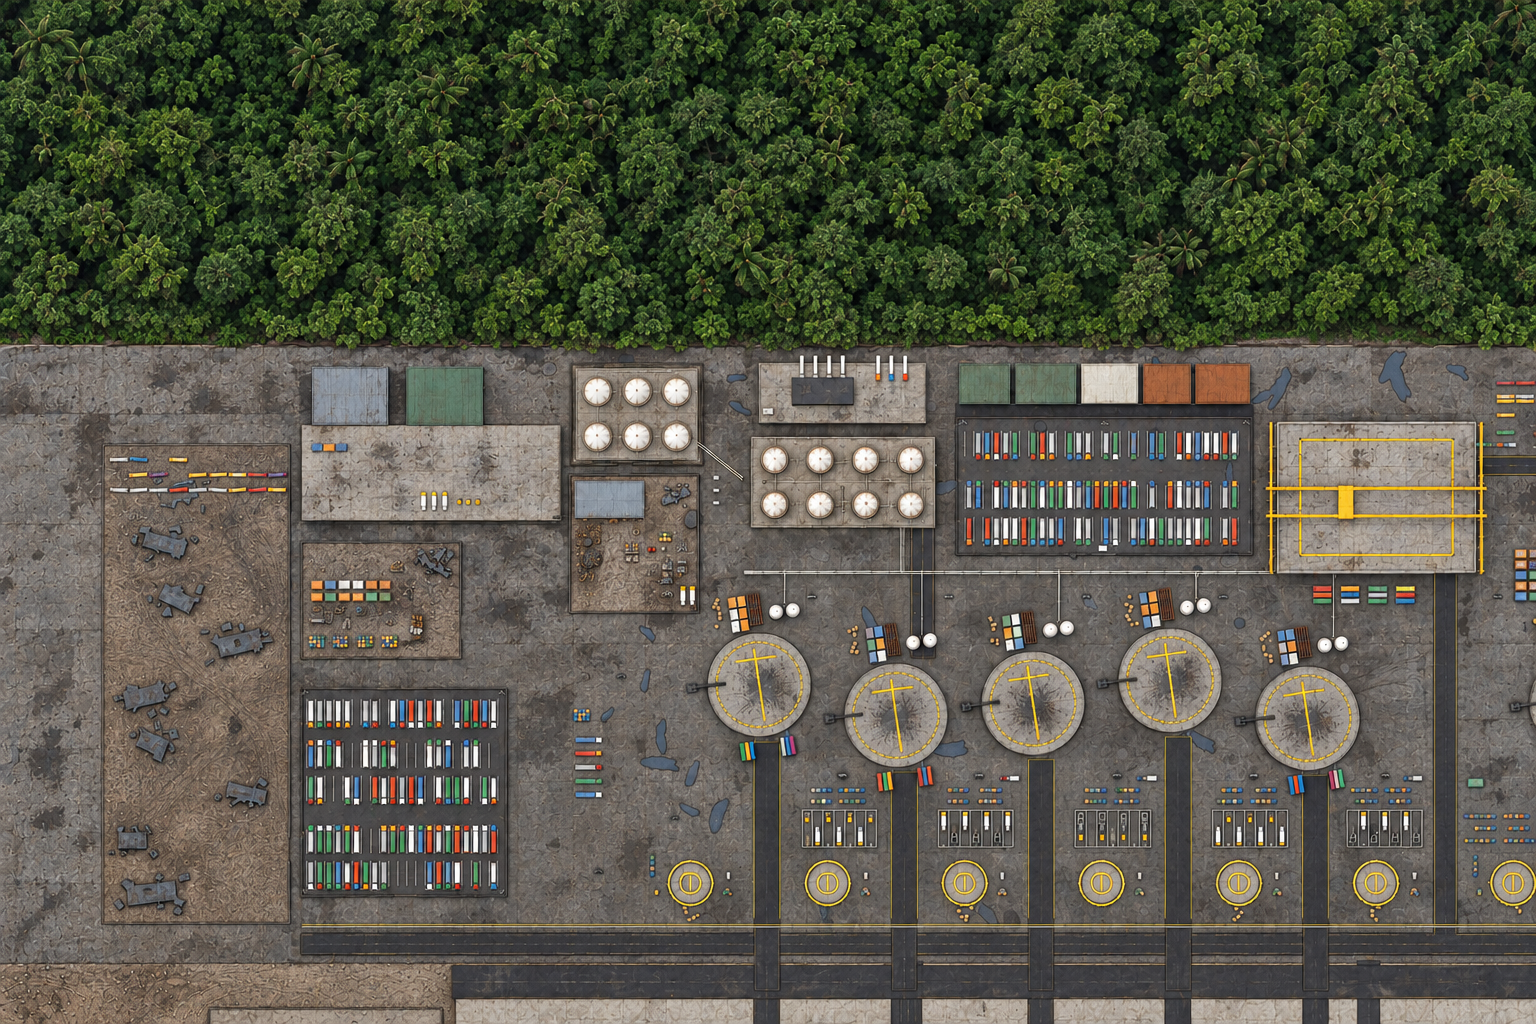
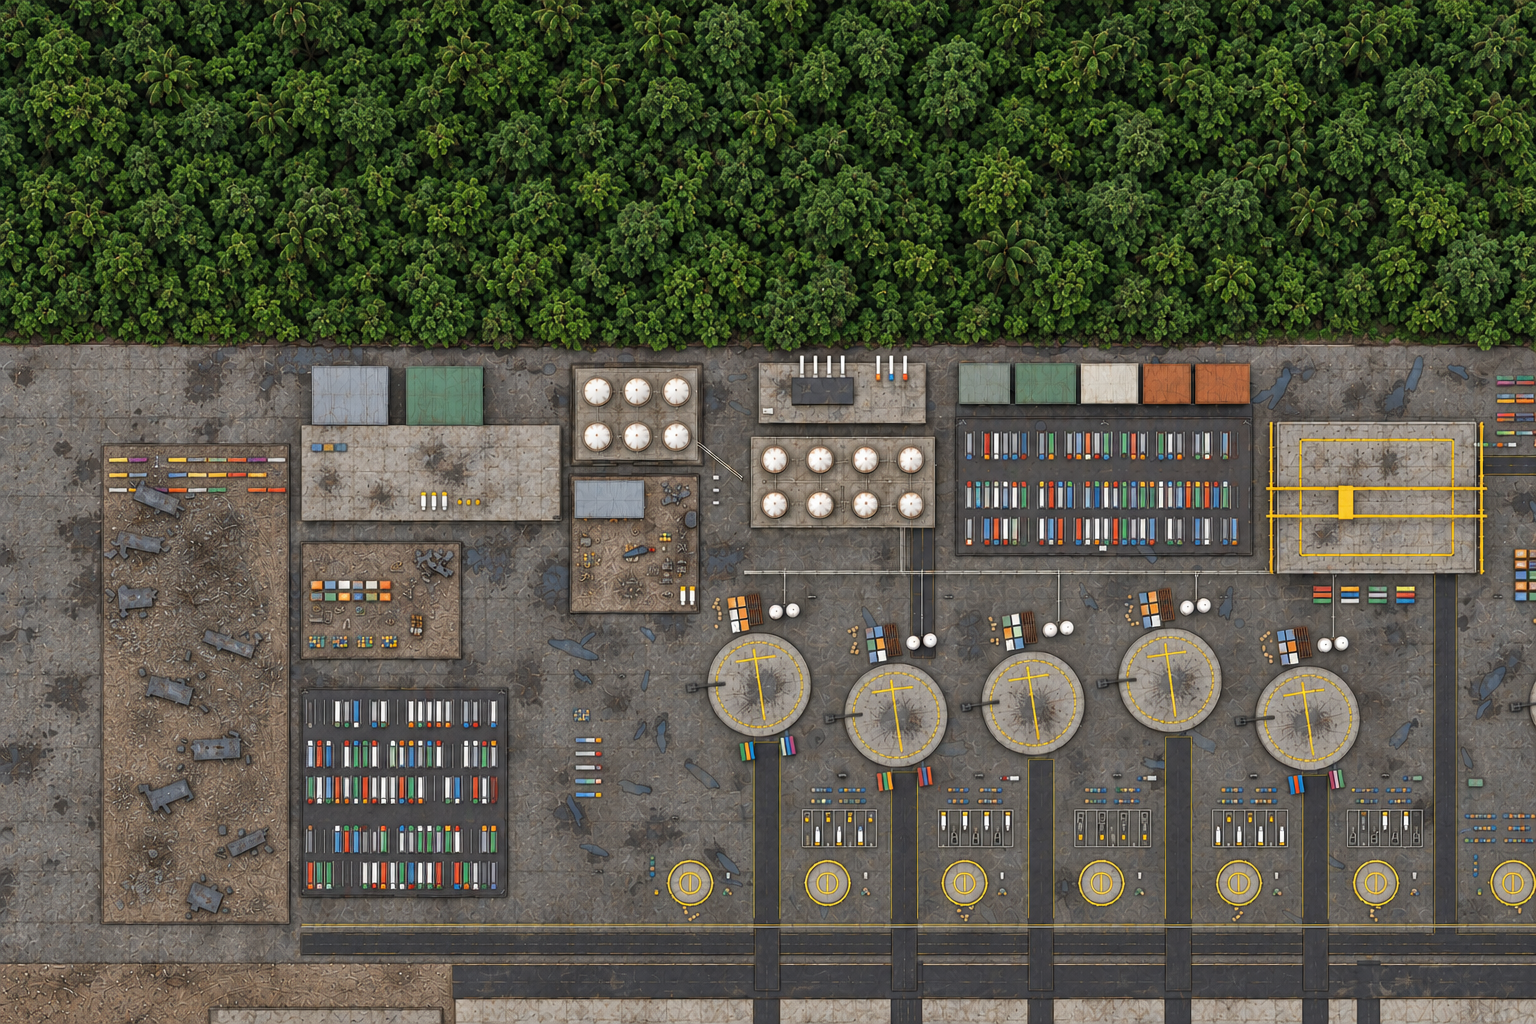
C4/C5 port detail: keep clear of port-life's routes
port_detail reads port_life.ROUTES and the berth forklift and bowser paths and
keeps everything standing off them: the arrivals car park and customs pound
move inside the terminal loop, and gap bays on a forklift lane are left out.
port_life's report now finds no mover passing through anything standing.
port-berths-w/e repainted over the moved layout (two generations).

diff --git a/art-source/company-prologue/second-wind-cinematic/industrial-exterior/port_detail.py b/art-source/company-prologue/second-wind-cinematic/industrial-exterior/port_detail.py
@@ -212,6 +212,7 @@ def keep_out(c4, g):
     for x, who in c4.LIGHTERS:
         g.circle(x, c4.LIGHTER_Y, c4.LIGHTER_R + 7)
         g.rect(x - 8, x + 8, c4.LIGHTER_Y - c4.LIGHTER_R - 14, c4.LIGHTER_Y)    # its crates
+    lanes += moving_ground(c4)
     LANES.extend(lanes)
     for ln in lanes:
         g.rect(*ln)
@@ -232,6 +233,32 @@ def keep_out(c4, g):
     for x, y, w, d, hh in c4.WAREHOUSES:
         g.rect(x - w / 2 - 2, x + w / 2 + 2, y - d / 2 - 2, y + d / 2 + 2)
     g.rect(-250.0, -214.0, -165.0, -92.0)                      # gate checkpoint
+
+
+def moving_ground(c4):
+    """Where port-life's vehicles drive (`port_life.ROUTES`, a lane centre each, vehicles up to 3 m
+    wide), and the paths its berth forklifts and second bowser take up the berth gaps
+    (`port_life.berth_work`): rectangles nothing standing may overlap."""
+    out = []
+    try:
+        import port_life
+    except ImportError:
+        return out
+    w = 4.0
+    for name, rt in port_life.ROUTES.items():
+        pts = rt['pts'] + ([rt['pts'][0]] if rt.get('closed', True) else [])
+        for (ax, ay), (bx, by) in zip(pts, pts[1:]):
+            out.append((min(ax, bx) - w, max(ax, bx) + w, min(ay, by) - w, max(ay, by) + w))
+    for x, off, who in c4.BERTHS:
+        if who not in ('hound', 'unloading', 'fuelling'):
+            continue
+        cy = c4.BERTH_Y + c4.BERTH_DY[x]
+        gx = x + 39.0
+        if who == 'fuelling':
+            out.append((gx - 5, gx + 5, cy - 68, cy - 2))
+        else:
+            out.append((gx - 5, gx + 5, cy - 46, cy + 28))
+    return out
 
 
 # ---------------------------------------------------------------- pieces of kit
@@ -401,11 +428,11 @@ def berth_gaps(c4, g, P, r):
         n = int((x1 - x0 - 4) // 7)
         bx = x0 + 2
         for row, (by, h) in enumerate(((y0 + 1, -math.pi / 2), (y0 + 13, math.pi / 2))):
-            if not g.free(bx, bx + n * 7, by, by + 12):
-                continue
-            bays(P, bx, by + (0 if row == 0 else 12), n, 7.0, 12.0 if row == 0 else -12.0)
             for i in range(n):
                 cx, cy = bx + 3.5 + i * 7, by + 6
+                if not g.free(cx - 3.5, cx + 3.5, by, by + 12):
+                    continue
+                bays(P, cx - 3.5, by + (0 if row == 0 else 12), 1, 7.0, 12.0 if row == 0 else -12.0)
                 kind = (i * 3 + k + row * 2) % 6
                 if kind == 0:
                     park(c4, 'Tug port %d %d %d' % (k, row, i), c4.tug_parts(P.m['gse']), cx, cy, h)
@@ -418,7 +445,7 @@ def berth_gaps(c4, g, P, r):
                 elif kind == 4:
                     hose_reel(P, cx - 1.2, cy - 2, h)
                     hose_reel(P, cx + 1.2, cy + 2, h)
-            g.take(bx, bx + n * 7, by, by + 12)
+                g.take(cx - 3.5, cx + 3.5, by, by + 12)
         # Above the bays: dolly trains parked in rows, a crew hut, drums, a mast.
         yy = y0 + 31
         for row in range(2):
@@ -723,14 +750,14 @@ def arrivals(c4, g, P, r):
     """Around the arrivals hall: a car park east of the ferry, buses and a taxi rank at the hall's
     door, MuniSec on the kerb, a kiosk."""
     ox, oy = c4.OFFICE
-    x0, x1, y0, y1 = 186.0, 284.0, 446.0, 520.0
+    x0, x1, y0, y1 = 208.0, 268.0, 455.0, 526.0
     c4.plane('Arrivals car park', x0, x1, y0, y1, P.m['lot'], 0.06)
     for row in range(5):
-        y = y0 + 4 + row * 14
-        bays(P, x0 + 4, y - 3, 30, 3.0, 6.0)
-        for k in range(30):
+        y = y0 + 5 + row * 14
+        bays(P, x0 + 3, y - 3, 18, 3.0, 6.0)
+        for k in range(18):
             if r.random() < 0.72:
-                car(P, r, x0 + 5.5 + k * 3.0, y, math.pi / 2 + r.uniform(-0.04, 0.04))
+                car(P, r, x0 + 4.5 + k * 3.0, y, math.pi / 2 + r.uniform(-0.04, 0.04))
     for x in (x0 + 2, x1 - 2):
         light_mast(P, x, y1 - 2, 18.0)
     g.take(x0, x1, y0, y1)
@@ -753,19 +780,19 @@ def arrivals(c4, g, P, r):
     g.take(ox - 54, ox - 14, 383.0, 389.0)
     # Customs' inspection pound between the ferry and the terminal: freight held for a look, a
     # booth, a covered inspection bay.
-    x0, x1, y0, y1 = 200.0, 282.0, 530.0, 612.0
+    x0, x1, y0, y1 = 208.0, 268.0, 534.0, 610.0
     c4.plane('Customs pound', x0, x1, y0, y1, P.m['lot'], 0.06)
     fence_box(P, x0, x1, y0, y1, 'W', (30.0, 46.0))
     for k in range(5):
-        y = y0 + 10 + k * 9
-        truck(P, r, x0 + 30, y, 0.0)
-        P.box('white line', (22.0, 0.5, 0.05), (x0 + 20, y - 4.5, 0.1))
-    P.box(P.m['roofs'][2], (26.0, 20.0, 7.0), (x1 - 18, y0 + 26, 3.5))   # the inspection shed
-    c4.WAREHOUSES.append((x1 - 18, y0 + 26, 26.0, 20.0, 7.0))
+        y = y0 + 8 + k * 8
+        truck(P, r, x0 + 24, y, 0.0)
+        P.box('white line', (22.0, 0.5, 0.05), (x0 + 14, y - 4.0, 0.1))
+    P.box(P.m['roofs'][2], (20.0, 18.0, 7.0), (x1 - 12, y0 + 22, 3.5))   # the inspection shed
+    c4.WAREHOUSES.append((x1 - 12, y0 + 22, 20.0, 18.0, 7.0))
     hut(P, r, x0 + 6, y0 + 56, 4.0, 3.0, 3.0, P.m['orange'])
-    crate_stack(P, r, x1 - 30, y1 - 18, 6, 3)
+    crate_stack(P, r, x0 + 30, y1 - 14, 6, 3)
     for k in range(3):
-        P.box(P.m['containers'][k + 1], (12, 2.4, 2.6), (x1 - 14, y1 - 26 - k * 3.4, 1.3))
+        P.box(P.m['containers'][k + 1], (12, 2.4, 2.6), (x1 - 10, y1 - 24 - k * 3.4, 1.3))
     light_mast(P, x1 - 3, y1 - 3, 22.0)
     g.take(x0, x1, y0, y1)
 
